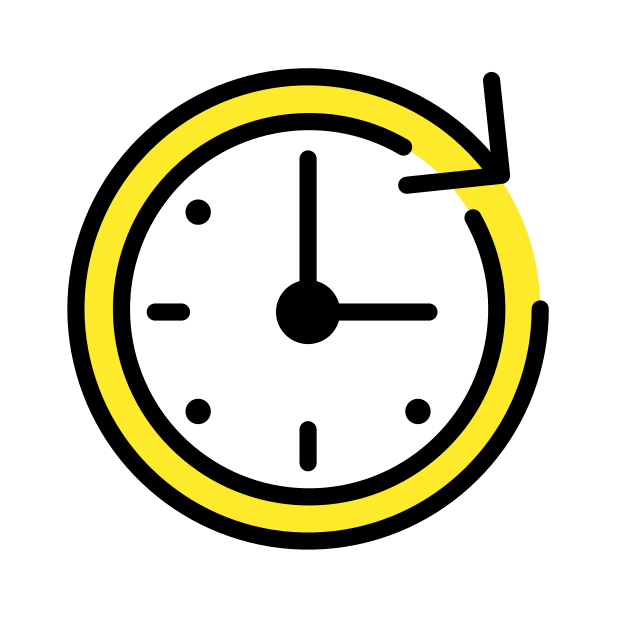
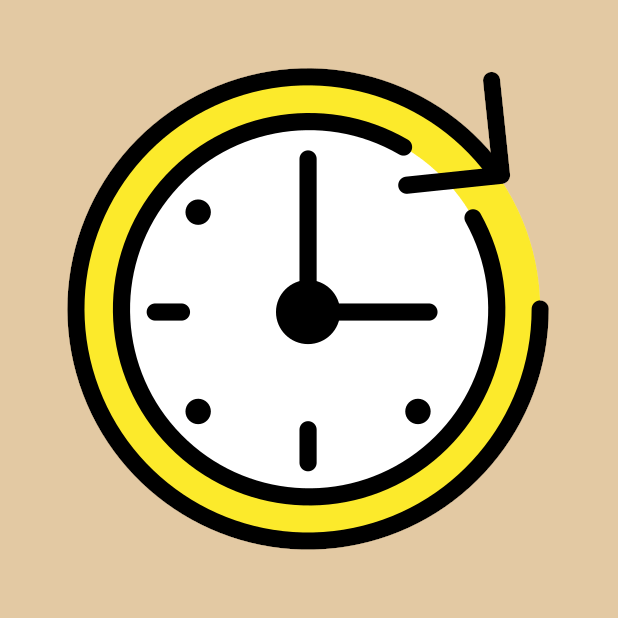
Better localization (#4)
* Localize default db entries

* fastlane: cleanup descriptions

* fastlane: add background-color to icon.

* Add alarm icons when both sound & vibration are selected.

* Bump version to "1.1.0"

diff --git a/app/src/main/java/cc/polysfaer/stochapop/data/DataSource.kt b/app/src/main/java/cc/polysfaer/stochapop/data/DataSource.kt
@@ -1,20 +1,59 @@
 package cc.polysfaer.stochapop.data
 
+import android.content.Context
+import cc.polysfaer.stochapop.R
+import cc.polysfaer.stochapop.data.reminder.Reminder
 import cc.polysfaer.stochapop.ui.screens.reminder.ReminderDetails
 import cc.polysfaer.stochapop.ui.screens.reminder.toReminder
 import java.time.DayOfWeek
 import java.time.LocalTime
 
 object DataSource {
-    val reminderList = listOf(
-        ReminderDetails(id=1, title="The Basics", message="- Single tap to edit,\n- Double tap to enable/disable,\n- Left swipe to delete.",
-            enabled = false, useRandomRange = false, hasSound = true, hasVibration = false, selectedDays = setOf(DayOfWeek.MONDAY)),
-        ReminderDetails(id=2, title="Random Ranges", message="Use a time range to spread notifications randomly.\n\nWhen a time range overlap two days, the starting day is used as the triggering day for the whole range.",
-            enabled = false, hasSound = false, hasVibration = true,  notificationCount = 5, selectedDays = setOf(DayOfWeek.MONDAY , DayOfWeek.WEDNESDAY, DayOfWeek.FRIDAY),
-            startTime = LocalTime.of(23, 30), endTime = LocalTime.of(0,30)),
-        ReminderDetails(id=3, title="Cool tips", message="Muted notifications use less battery \uD83C\uDF3F \uD83E\uDDA5",
-            enabled = false, hasSound = false, hasVibration = false,  notificationCount = 12, selectedDays = setOf(DayOfWeek.SATURDAY)),
-        ReminderDetails(id=4, title="Thank you!", message="◝(ᵔᗜᵔ)◜ ♡ ", enabled = true, useRandomRange = false,
-            hasSound = true, hasVibration = true,  startTime = LocalTime.now().plusMinutes(1)),
-    ).map { it.toReminder() }
+
+    fun getReminders(context: Context): List<Reminder> {
+        return listOf(
+            ReminderDetails(
+                id = 1,
+                title = context.getString(R.string.tuto_1_title),
+                message = context.getString(R.string.tuto_1_message),
+                enabled = false,
+                useRandomRange = false,
+                hasSound = true,
+                hasVibration = false,
+                selectedDays = setOf(DayOfWeek.MONDAY)
+            ),
+            ReminderDetails(
+                id = 2,
+                title = context.getString(R.string.tuto_2_title),
+                message = context.getString(R.string.tuto_2_message),
+                enabled = false,
+                hasSound = false,
+                hasVibration = true,
+                notificationCount = 5,
+                selectedDays = setOf(DayOfWeek.MONDAY, DayOfWeek.WEDNESDAY, DayOfWeek.FRIDAY),
+                startTime = LocalTime.of(23, 30),
+                endTime = LocalTime.of(0, 30)
+            ),
+            ReminderDetails(
+                id = 3,
+                title = context.getString(R.string.tuto_3_title),
+                message = "${context.getString(R.string.tuto_3_message)} \uD83C\uDF3F \uD83E\uDDA5",
+                enabled = false,
+                hasSound = false,
+                hasVibration = false,
+                notificationCount = 12,
+                selectedDays = setOf(DayOfWeek.SATURDAY)
+            ),
+            ReminderDetails(
+                id = 4,
+                title = context.getString(R.string.tuto_4_title),
+                message = "◝(ᵔᗜᵔ)◜ ♡ ",
+                enabled = true,
+                useRandomRange = false,
+                hasSound = true,
+                hasVibration = true,
+                startTime = LocalTime.now().plusMinutes(1)
+            ),
+        ).map { it.toReminder() }
+    }
 }

diff --git a/app/src/main/java/cc/polysfaer/stochapop/ui/screens/home/HomeScreen.kt b/app/src/main/java/cc/polysfaer/stochapop/ui/screens/home/HomeScreen.kt
@@ -8,6 +8,7 @@ import android.content.pm.PackageManager
 import android.os.Build
 import androidx.activity.compose.rememberLauncherForActivityResult
 import androidx.activity.result.contract.ActivityResultContracts
+import androidx.annotation.DrawableRes
 import androidx.compose.foundation.border
 import androidx.compose.foundation.combinedClickable
 import androidx.compose.foundation.layout.Box
@@ -318,6 +319,19 @@ fun CardInfoText(
 }
 
 @Composable
+fun AlarmIcon(
+    @DrawableRes id: Int,
+    contentDescription: String?,
+    modifier: Modifier = Modifier
+) {
+    Icon(
+        painter = painterResource(id),
+        contentDescription = contentDescription,
+        modifier = modifier.size(14.dp)
+    )
+}
+
+@Composable
 fun ReminderCard(
     reminder: Reminder,
     modifier: Modifier = Modifier,
@@ -334,7 +348,7 @@ fun ReminderCard(
             .combinedClickable(
                 onClick = onClick,
                 onDoubleClick = onDoubleClick,
-//                onLongClick = onLongClick,
+                onLongClick = onLongClick,
             )
         ,
         shape = MaterialTheme.shapes.extraSmall,
@@ -400,22 +414,20 @@ fun ReminderCard(
                         )
                     }
 
-                    if (!reminder.hasSound || !reminder.hasVibration) {
-                        Spacer(modifier = Modifier.padding(horizontal = 5.dp))
+                    Spacer(modifier = Modifier.padding(horizontal = 5.dp))
 
-                        val res = if (reminder.hasVibration) {
-                            R.drawable.mobile_vibrate_24px
-                        } else if (reminder.hasSound) {
-                            R.drawable.volume_up_24px
-                        } else {
-                            R.drawable.volume_off_24px
+                    if (!reminder.hasSound && !reminder.hasVibration) {
+                        AlarmIcon(R.drawable.volume_off_24px, "no alarm")
+                    } else {
+                        if (reminder.hasSound) {
+                            AlarmIcon(R.drawable.volume_up_24px, "sound alarm")
+                            Spacer(modifier = Modifier.padding(horizontal = 2.dp))
                         }
-                        Icon(
-                            painter = painterResource(id = res),
-                            contentDescription = "alarm type icon",
-                            modifier = Modifier.size(14.dp)
-                        )
+                        if (reminder.hasVibration) {
+                            AlarmIcon(R.drawable.mobile_vibrate_24px, "vibration alarm")
+                        }
                     }
+
                 }
 
                 // -----------------------
@@ -425,7 +437,6 @@ fun ReminderCard(
                     modifier = Modifier
                         .padding(start = 12.dp, end = 4.dp, top = 6.dp, bottom = 6.dp),
                     style = MaterialTheme.typography.bodyMedium,
-//                    fontStyle = FontStyle.Italic
                 )
             }
         }
@@ -437,9 +448,10 @@ fun ReminderCard(
 @Preview(showBackground = true)
 @Composable
 fun HomeScreenPreview() {
+    val context = LocalContext.current
     StochaPopTheme {
         HomeScreenContent(
-            reminderList = DataSource.reminderList,
+            reminderList = DataSource.getReminders(context),
             onAddReminder = {},
             onEditReminder = {},
             onToggleReminder = {},

diff --git a/app/src/main/java/cc/polysfaer/stochapop/ui/screens/home/HomeViewModel.kt b/app/src/main/java/cc/polysfaer/stochapop/ui/screens/home/HomeViewModel.kt
@@ -1,5 +1,6 @@
 package cc.polysfaer.stochapop.ui.screens.home
 
+import android.app.Application
 import android.content.SharedPreferences
 import androidx.core.content.edit
 import androidx.lifecycle.ViewModel
@@ -21,6 +22,7 @@ data class HomeUiState(
 
 /* ViewModel to retrieve all items in the Room Database. */
 class HomeViewModel(
+    private val application: Application,
     private val remindersRepository: RemindersRepository,
     private val schedulerRepository: SchedulerRepository,
     private val sharedPreference: SharedPreferences
@@ -41,11 +43,13 @@ class HomeViewModel(
     private fun initializeOnFirstRun() {
         val isFirstRun = sharedPreference.getBoolean(AppSettingsName.IS_FIRST_RUN.key, true)
 
+        val reminderList = DataSource.getReminders(application)
+
         if (isFirstRun) {
             viewModelScope.launch {
-              if (false) {
+              if (true) {
                   // Fill the DB with the DataSource (to be exported).
-                  DataSource.reminderList.forEach {
+                  reminderList.forEach {
                       remindersRepository.insertReminder(it)
                       if (it.enabled) {
                           schedulerRepository.scheduleReminderAlarms(it)
@@ -53,7 +57,7 @@ class HomeViewModel(
                   }
               } else {
                   // Only fill the DB with the last DataSource record.
-                  val ps = DataSource.reminderList.last()
+                  val ps = reminderList.last()
                   remindersRepository.insertReminder(ps)
                   if (ps.enabled) {
                       schedulerRepository.scheduleReminderAlarms(ps)

diff --git a/app/src/main/java/cc/polysfaer/stochapop/ui/screens/reminder/ReminderEditViewModel.kt b/app/src/main/java/cc/polysfaer/stochapop/ui/screens/reminder/ReminderEditViewModel.kt
@@ -1,11 +1,13 @@
 package cc.polysfaer.stochapop.ui.screens.reminder
 
+import android.app.Application
 import androidx.compose.runtime.getValue
 import androidx.compose.runtime.mutableStateOf
 import androidx.compose.runtime.setValue
 import androidx.lifecycle.SavedStateHandle
 import androidx.lifecycle.ViewModel
 import androidx.lifecycle.viewModelScope
+import cc.polysfaer.stochapop.R
 import cc.polysfaer.stochapop.controller.broadcast.SchedulerRepository
 import cc.polysfaer.stochapop.data.reminder.RemindersRepository
 import kotlinx.coroutines.flow.filterNotNull
@@ -19,13 +21,17 @@ import java.time.LocalTime
  **/
 class ReminderEditViewModel(
     savedStateHandle: SavedStateHandle,
+    private val application: Application,
     private val remindersRepository: RemindersRepository,
     private val schedulerRepository: SchedulerRepository,
 ) : ViewModel() {
     val reminderId: Int = savedStateHandle[EditReminderDestination.REMINDER_ID_ARG] ?: -1
     val isEditMode: Boolean = reminderId != -1
 
-    var uiState by mutableStateOf(ReminderEditUIState(initialLoadDone = !isEditMode))  // switch to FlowState?
+    var uiState by mutableStateOf(ReminderEditUIState(
+        reminderDetails = ReminderDetails(title = application.getString(R.string.edit_reminder_default_title)),
+        initialLoadDone = !isEditMode
+    ))  // switch to FlowState?
         private set
 
     init {

diff --git a/app/src/main/java/cc/polysfaer/stochapop/ui/AppViewModelProvider.kt b/app/src/main/java/cc/polysfaer/stochapop/ui/AppViewModelProvider.kt
@@ -12,19 +12,23 @@ import cc.polysfaer.stochapop.ui.screens.reminder.ReminderEditViewModel
 object AppViewModelProvider {
     val Factory = viewModelFactory {
         initializer {
-            val appContainer = mainApplication().container
+            val app = mainApplication()
+            val appContainer = app.container
 
             HomeViewModel(
+                app,
                 appContainer.remindersRepository,
                 appContainer.schedulerRepository,
                 appContainer.prefs
             )
         }
         initializer {
-            val appContainer = mainApplication().container
+            val app = mainApplication()
+            val appContainer = app.container
 
             ReminderEditViewModel(
                 this.createSavedStateHandle(),
+                app,
                 appContainer.remindersRepository,
                 appContainer.schedulerRepository
             )

diff --git a/app/src/main/java/cc/polysfaer/stochapop/data/AppDatabase.kt b/app/src/main/java/cc/polysfaer/stochapop/data/AppDatabase.kt
@@ -22,7 +22,7 @@ abstract class AppDatabase : RoomDatabase() {
         fun getDatabase(context: Context): AppDatabase {
             return Instance ?: synchronized(this) {
                 Room.databaseBuilder(context, AppDatabase::class.java, "app_database")
-                    .createFromAsset("welcome_tutorial.db")
+                    // .createFromAsset("welcome_tutorial.db")
                     .fallbackToDestructiveMigration(false)
                     .build()
                     .also { Instance = it }

diff --git a/app/src/main/java/cc/polysfaer/stochapop/data/AppContainer.kt b/app/src/main/java/cc/polysfaer/stochapop/data/AppContainer.kt
@@ -14,9 +14,6 @@ interface AppContainer {
 
     /* Manage the alarms scheduler. */
     val schedulerRepository: SchedulerRepository
-
-    /* Manage the Workers for notifications. */
-//    val workerRepository: WorkerRepository
 }
 
 enum class AppSettingsName(val key: String) {
